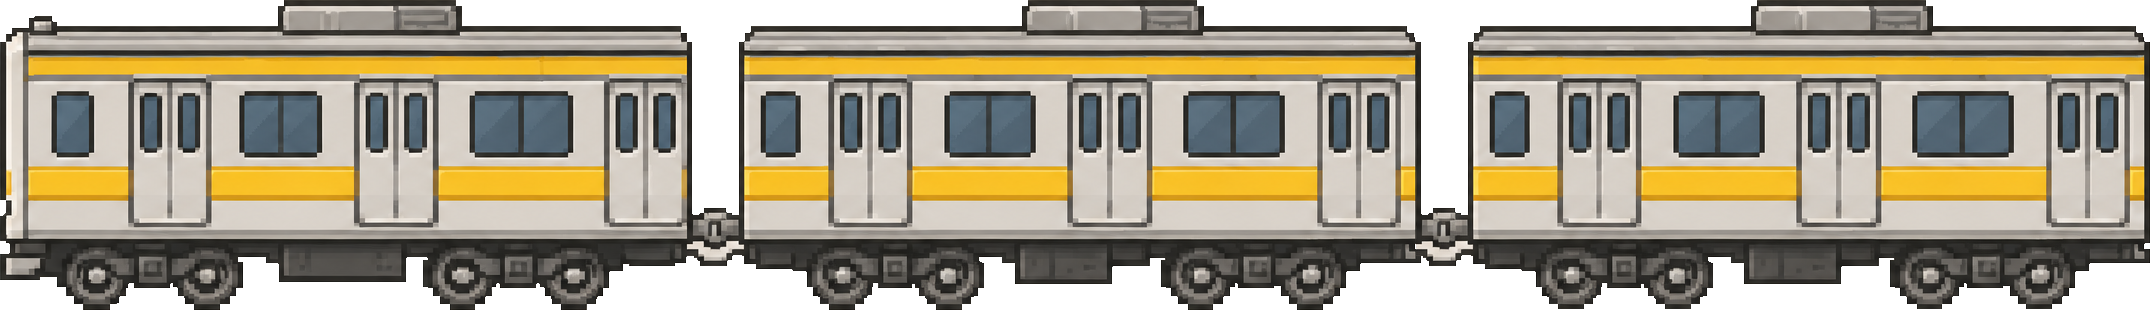
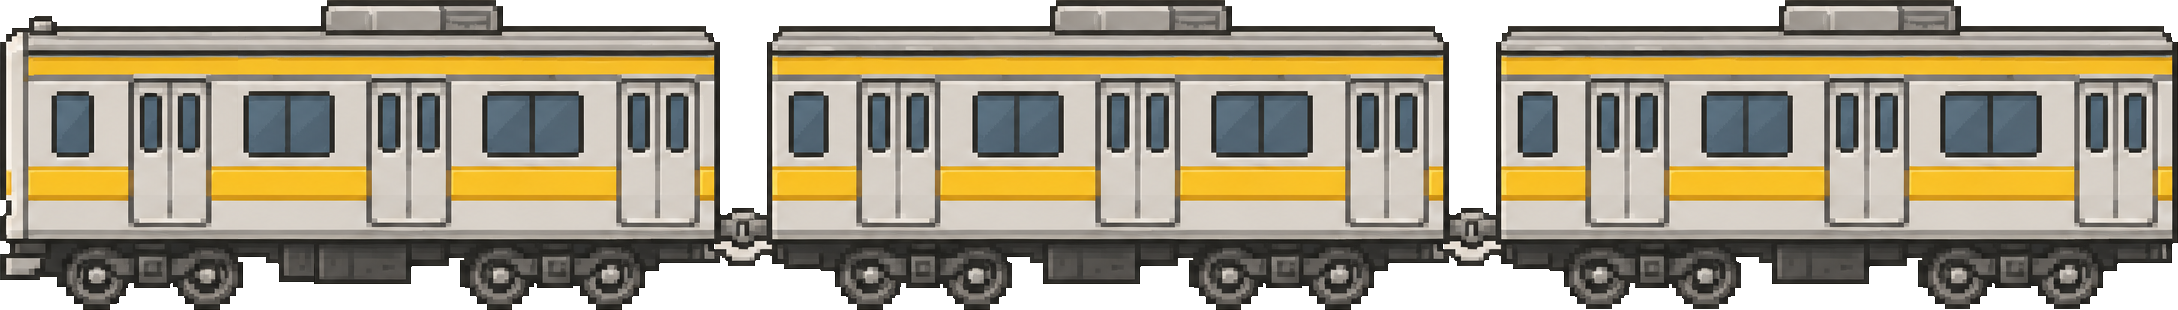
Match the aspect ratios and window glow to the stretched prarail

diff --git a/styles.css b/styles.css
@@ -1195,7 +1195,7 @@ body.dark .spk-hint {
   left: 0;
   top: 62%;                         /* 画面中ほど(通過が映える高さ) */
   height: 80px;
-  aspect-ratio: 2150 / 310;         /* prarail.png の比(高さから幅を決定) */
+  aspect-ratio: 2178 / 310;         /* prarail.png の比(高さから幅を決定) */
   z-index: 50;                      /* 手前を横切る */
   background: url('images/prarail.png') center/contain no-repeat;
   image-rendering: pixelated;

diff --git a/design/venue-decor/index.html b/design/venue-decor/index.html
@@ -444,7 +444,7 @@ body.capture .wrap::before {
         <div class="assemble">Assemble</div>
       </div>
       <div class="part motor" style="left: 938px; top: 302px; width: 44px;"></div>
-      <div class="prarail" style="left: 1007px; top: 915px; width: 440px; aspect-ratio: 2150 / 310;"></div>
+      <div class="prarail" style="left: 1007px; top: 915px; width: 440px; aspect-ratio: 2178 / 310;"></div>
       </div>
     </div>
   </template>
